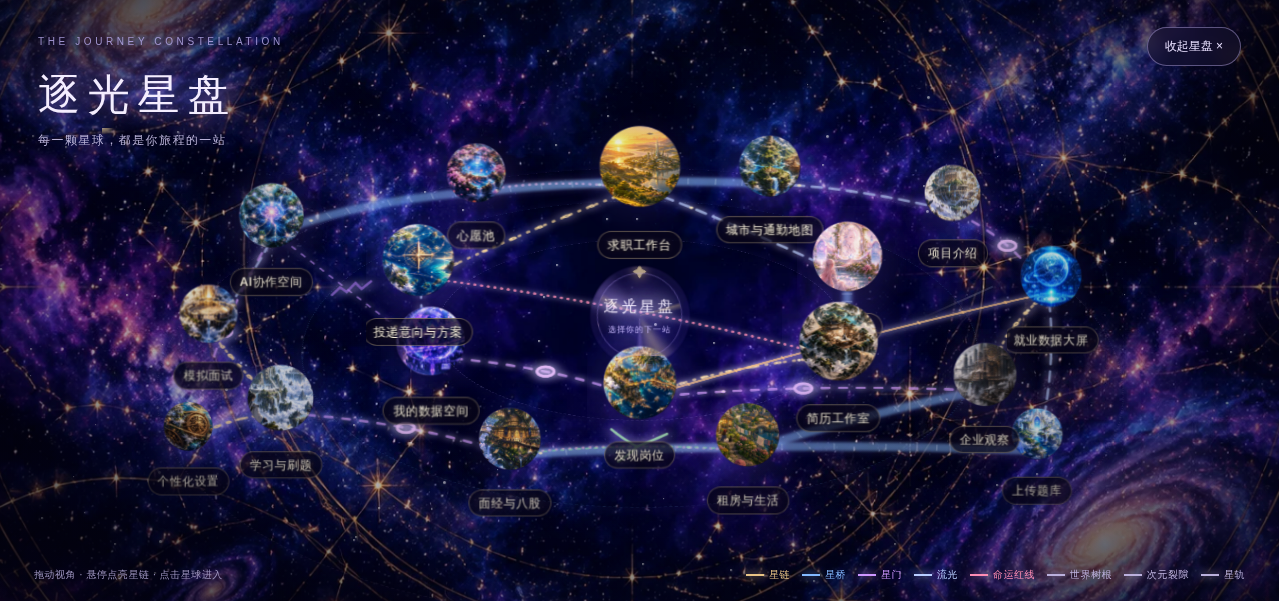
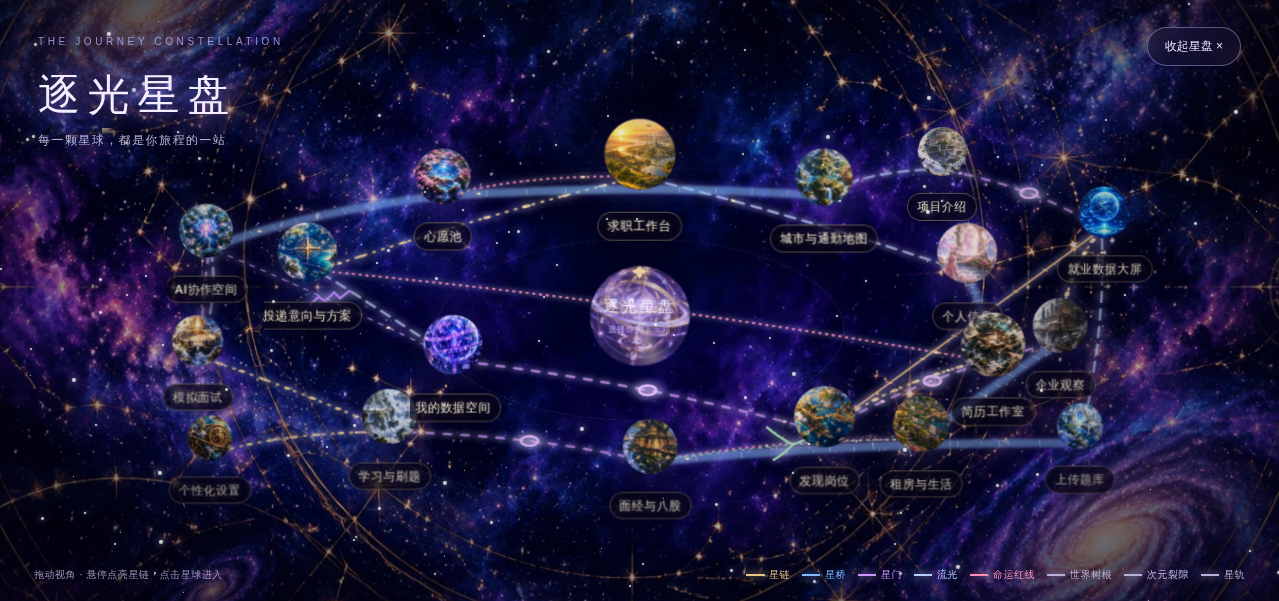
feat: 重生成3D星盘并拉开星球间距
使用新生成的天体星盘图叠加自转/能量扫光；重新排布18个星球避免名称遮挡；修正流星朝向、增强星尘、悬浮阴影；更新预览与文档。

Changed region(s): [[0.122, 0.1797, 0.9148, 0.8686], [0.3659, 0.8087, 0.4269, 0.8686]]

diff --git a/app/src/star-map.ts b/app/src/star-map.ts
@@ -5,24 +5,24 @@ type Position = { x: number; y: number; z: number; size: number };
 type Connect = { a: string; b: string; kind: string };
 
 const POS: Record<string, Position> = {
-  home: { x: 50, y: 16, z: 50, size: 134 },
-  profile: { x: 69, y: 39, z: 24, size: 118 },
-  resume: { x: 68, y: 61, z: 38, size: 132 },
-  jobs: { x: 50, y: 72, z: 18, size: 124 },
-  data: { x: 31, y: 61, z: 30, size: 116 },
-  plan: { x: 30, y: 40, z: 42, size: 120 },
-  guide: { x: 79, y: 22, z: 8, size: 96 },
-  dashboard: { x: 88, y: 44, z: 10, size: 104 },
-  companies: { x: 82, y: 70, z: 6, size: 108 },
-  housing: { x: 60, y: 86, z: 12, size: 108 },
-  knowledge: { x: 38, y: 87, z: 8, size: 106 },
-  practice: { x: 17, y: 76, z: 16, size: 112 },
-  interview: { x: 10, y: 54, z: 4, size: 100 },
-  chat: { x: 16, y: 28, z: 12, size: 110 },
-  wish: { x: 35, y: 17, z: 22, size: 100 },
-  map: { x: 62, y: 15, z: 14, size: 104 },
-  "study-upload": { x: 87, y: 86, z: 0, size: 88 },
-  settings: { x: 8, y: 84, z: 0, size: 84 },
+  home: { x: 50, y: 13, z: 50, size: 118 },
+  profile: { x: 80, y: 38, z: 24, size: 102 },
+  resume: { x: 82, y: 62, z: 38, size: 108 },
+  jobs: { x: 67, y: 81, z: 18, size: 104 },
+  data: { x: 33, y: 62, z: 30, size: 100 },
+  plan: { x: 20, y: 38, z: 42, size: 100 },
+  guide: { x: 78, y: 11, z: 8, size: 84 },
+  dashboard: { x: 93, y: 27, z: 10, size: 88 },
+  companies: { x: 89, y: 57, z: 6, size: 94 },
+  housing: { x: 76, y: 83, z: 12, size: 96 },
+  knowledge: { x: 51, y: 89, z: 8, size: 94 },
+  practice: { x: 27, y: 81, z: 16, size: 94 },
+  interview: { x: 9, y: 61, z: 4, size: 88 },
+  chat: { x: 10, y: 32, z: 12, size: 92 },
+  wish: { x: 32, y: 18, z: 22, size: 94 },
+  map: { x: 67, y: 18, z: 14, size: 98 },
+  "study-upload": { x: 91, y: 84, z: 0, size: 80 },
+  settings: { x: 10, y: 87, z: 0, size: 78 },
 };
 const CONNECTIONS: Connect[] = [
   { a: "home", b: "profile", kind: "starlight" },
@@ -56,8 +56,8 @@ const KIND_LABEL: Record<string, string> = { chain: "星链", bridge: "星桥", 
 const METEORS = (() => { let s = 91; const r = () => (s = (s * 48271) % 2147483647) / 2147483647; return Array.from({ length: 8 }, (_, i) => ({ left: 8 + r() * 85, top: r() * 48, len: 60 + r() * 100, delay: r() * 14, dur: 4 + r() * 3, key: i })); })();
 METEORS[0].delay = 0.2; METEORS[0].dur = 3.2; METEORS[0].top = 8; METEORS[0].left = 22;
 METEORS[1].delay = 3.4; METEORS[1].dur = 3.8; METEORS[1].top = 18; METEORS[1].left = 70;
-const STARS = (() => { let s = 17; const r = () => (s = (s * 48271) % 2147483647) / 2147483647; return Array.from({ length: 90 }, (_, i) => ({ left: r() * 100, top: r() * 100, d: r() * 6 + 2, delay: r() * 8, size: r() * 2 + 1, key: i })); })();
-const STAR_ASSETS = ["cosmos", "astrolabe", ...Object.keys(POS)].map((id) => "/assets/star-map/" + id + ".webp");
+const STARS = (() => { let s = 17; const r = () => (s = (s * 48271) % 2147483647) / 2147483647; return Array.from({ length: 140 }, (_, i) => ({ left: r() * 100, top: r() * 100, d: r() * 6 + 2, delay: r() * 8, size: r() * 2.8 + 1, key: i })); })();
+const STAR_ASSETS = ["cosmos", "astrolabe", "astrolabe2", ...Object.keys(POS)].map((id) => "/assets/star-map/" + id + ".webp");
 let preloadStarted = false;
 /** 空闲时预取星盘图片；配合服务端 immutable 缓存，第二次打开几乎瞬时。 */
 export function preloadStarAssets() {
@@ -169,7 +169,7 @@ export default defineComponent({
       h("div", { class: "star-map-stage", style: { "--rx": tilt.value.x + "deg", "--ry": tilt.value.y + "deg" }, onPointermove: move, onPointerleave: reset }, [
         h("div", { class: "star-ring ring-1" }), h("div", { class: "star-ring ring-2" }), h("div", { class: "star-ring ring-3" }),
         h("div", { class: "star-core" }, [
-          h("span", { class: "star-core-glow" }), h("span", { class: "star-core-sweep" }), h("span", { class: "star-core-rune" }, "✦"),
+          h("span", { class: "star-core-glow" }), h("span", { class: "star-core-art" }), h("span", { class: "star-core-sweep" }), h("span", { class: "star-core-rune" }, "✦"),
           h("strong", null, "逐光星盘"), h("small", null, "选择你的下一站"),
         ]),
         h("svg", { class: "star-links", viewBox: "0 0 1600 1000", preserveAspectRatio: "none", "aria-hidden": "true" }, CONNECTIONS.map((c, i) => linkGroup(c, i))),

diff --git a/app/src/app.css b/app/src/app.css
@@ -2690,3 +2690,14 @@ html[data-theme="night"] .housing-rent select { color: #eaf2ff; }
 .star-map.is-previewing .star-planet-desc{opacity:0!important}
 .star-preview:before{content:"";position:absolute;left:50%;top:50%;width:min(370px,34vw);height:min(370px,34vw);border:1px solid rgba(247,216,152,.35);border-radius:50%;transform:translate(-50%,-50%) rotateX(68deg);box-shadow:0 0 18px rgba(171,140,255,.25);animation:previewRing 12s linear infinite;pointer-events:none}
 @keyframes previewRing{to{transform:translate(-50%,-50%) rotateX(68deg) rotate(360deg)}}
+.star-core-art{position:absolute;inset:3%;z-index:0;border-radius:50%;background:url("/assets/star-map/astrolabe2.webp") center/contain no-repeat;mix-blend-mode:screen;opacity:.78;animation:coreArt 38s linear infinite;pointer-events:none;-webkit-mask-image:radial-gradient(circle at 50% 50%,#000 55%,transparent 72%);mask-image:radial-gradient(circle at 50% 50%,#000 55%,transparent 72%)}
+.star-core strong,.star-core small{z-index:2}
+@keyframes coreArt{to{transform:rotate(360deg)}}
+/* 流星朝向修正：头在右下，尾在左上 */
+.star-meteors i{transform:rotate(24deg) translateX(-40px)}
+@keyframes meteorFall{0%{opacity:0;transform:translate3d(-12vw,-8vh,0) rotate(24deg) scaleX(.2)}4%{opacity:1}17%{opacity:0;transform:translate3d(56vw,52vh,0) rotate(24deg) scaleX(1)}18%,100%{opacity:0}}
+/* 让星点更明显 */
+.star-map-stars{z-index:1}
+.star-map-stars i{box-shadow:0 0 8px #e9eeff,0 0 18px rgba(170,190,255,.9);opacity:.8}
+/* 星球悬浮投影 */
+.star-planet:after{content:"";position:absolute;left:50%;bottom:-9px;width:78%;height:14px;transform:translateX(-50%);border-radius:50%;background:radial-gradient(ellipse,rgba(6,4,22,.72),transparent 72%);filter:blur(5px);z-index:-1;pointer-events:none}

diff --git a/docs/TEST_REPORT.md b/docs/TEST_REPORT.md
@@ -219,7 +219,7 @@
 - 数据空间：数据概览为本账号口径；上传记录可撤销；同岗位/企业/租房/问题按业务键保留最新并删除旧行；样例文件和去重/撤销测试通过。
 - 岗位投递意向：岗位卡片显示未确认/待保存/已确认；支持按已确认/未确认筛选，筛选使用服务端已保存意向。
 - 地图：修复 .page-content > * 的 relative 定位覆盖 .map-full fixed 导致地图容器 0 高度；地图层现在固定填满视口。岗位/租房/地铁/酒店/推荐改为类型化 SVG 图钉，图例置于顶部；进入地图时隐藏网站顶部栏，地图搜索框保持在顶部；通勤方向的住房/岗位地址已选后可点击 × 清除；企业详情表格字号提升到 14px/1.75；租房筛选栏合并城市、搜索、租金控件，搜索按钮改为主色；学习页 iframe 不再被 page-content 的 relative 规则下推，紧贴顶部栏；批量简化改为一次请求处理多条，最多50道并跳过已有答案；卡片显示“简化答案”标记；收藏/错题接口返回完整题目，刷新后收藏与错题列表和按钮状态恢复；修复 review 列表 onMounted/onActivated 并发重载导致的多次点击；面经八股移除重复的收藏/待复习/已掌握/学习入口；问问AI改为打开知微对话草稿，画布分步讲题和3D立方体鼠标交互通过；长题用 chip、Shift+Enter 换行、输入框自动伸缩、图片关闭X居中、立绘/看板娘会话管理（含删除）通过；讲题画布改为大尺寸覆盖窗口，可最小化再从对话框入口恢复；3D 支持透明材质与多物体组合（透明正方体+球体）；刷新学习页保持当前科目/版本；四个智能体支持自然语言生成自定义网页并弹出覆盖窗；报告页隐藏左上角悬浮上传入口；小机器人工具箱移除 Agent 任务。
-- 逐光星盘：18 个板块使用 AI 生成的独立风格星球图，中心动态 CSS 天体盘，星链/星桥/星门/流光/命运红线/世界树根/次元裂隙/星轨连接；链环、桥板、星门、能量粒子为 SVG 动态绘制；悬停放大星球并出现中央法天象地预览，相关连线点亮；背景有闪烁星尘和流星；星球图为 webp，服务端 immutable 缓存 + 空闲预取。Playwright 实测 18 图加载、悬停/预览/联动、跳转、关闭和缓存头。
+- 逐光星盘：18 个板块使用 AI 生成的独立风格星球图，单独生成的 3D 天体星盘图 + 动态扫光/自转，18 颗星球拉开间距，星链/星桥/星门/流光/命运红线/世界树根/次元裂隙/星轨连接；链环、桥板、星门、能量粒子为 SVG 动态绘制；悬停放大星球并出现中央法天象地预览，相关连线点亮；背景有闪烁星尘和流星；星球图为 webp，服务端 immutable 缓存 + 空闲预取。Playwright 实测 18 图加载、悬停/预览/联动、跳转、关闭和缓存头。
 - 详细记录：[CLICK_AUDIT.md](CLICK_AUDIT.md)
 
 ## 六、仍存在的限制/风险

diff --git a/docs/MANUAL_TESTING.md b/docs/MANUAL_TESTING.md
@@ -100,7 +100,7 @@
 | 21 | 上传去重/撤销 | 上传 docs/manual-data/jobs-upload-sample.csv 两次；在“已上传的数据”或“上传记录”点“撤销上传” | 首次约5行；第二次替换旧行；两个入口都能撤销并删除数据 | 样例是虚构数据 |
 | 22 | 关闭按钮/圆盘 | 打开通告、登录弹窗；看板娘圆盘 | × 垂直水平居中；紫色圆盘 ✦ 居中 | 深色主题同样 |
 | 23 | 岗位投递意向筛选 | 岗位页点“加入投递意向”并保存；切换“已确认/未确认投递意向” | 卡片出现已确认/待保存徽标；已确认筛选只显示已保存岗位 | 未保存选择算未确认 |
-| 35 | 逐光星盘 3D 宇宙地图 | 点击“展开星盘”；悬停星球；点击任意星球；关闭 | 18 颗风格化星球和名称；悬停星球/相关连线发光，中央出现大星球预览；背景流星；点击进入板块；星盘可关闭；二次打开图片走缓存 | 1279×900 / 1279×601 |
+| 35 | 逐光星盘 3D 宇宙地图 | 点击“展开星盘”；悬停星球；点击任意星球；关闭 | 18 颗风格化星球和名称，星球间距加大无遮挡；悬停星球/相关连线发光，中央出现大星球预览；中心 3D 天体盘自转，背景星尘闪烁并有流星；点击进入板块；二次打开图片走缓存 | 1279×900 / 1279×601 |
 | 34 | 智能体自定义网页 | 对任一看板娘说“生成一个学习计划网页” | 弹出可最小化的独立网页窗口；报告页左上角无悬浮上传按钮；科目工具箱无 Agent 任务 | 真实 AI |
 | 33 | 讲题覆盖窗/刷新 | 在知微里让AI讲题/做3D；关掉覆盖窗后刷新学习页 | 画布覆盖页面，右上角 − 可最小化；刷新仍在原科目版本 | 覆盖窗 z-index 高 |
 | 32 | 对话 chip/输入/会话 | 问问AI填入长题；Shift+Enter；输入长文本；点新会话/会话；删除历史会话 | 输入框显示[题目]chip；换行不发送；输入框先变宽再增高；可新建/切换/删除会话并刷新保留 | 1279×900 |

diff --git a/docs/FEATURES.md b/docs/FEATURES.md
@@ -6,7 +6,7 @@
 
 - 落地页、品牌、职业旅程地图（17 个板块）
 - 可拖动/收起的星盘导航，位置记忆，键盘可操作
-- 逐光星盘：全屏宇宙星空 3D 旅程地图，18 个板块各自一颗风格化星球（AI 生成世界场景），中心天盘、星链/星桥/星门/流光/命运红线连接，悬停点亮星球与相关连线并出现中央“法天象地”预览，点击进入对应板块；星盘和背景有流星/星尘/天体旋转，图片 webp + immutable 缓存
+- 逐光星盘：全屏宇宙星空 3D 旅程地图，18 个板块各自一颗风格化星球（AI 生成世界场景），中心天盘、星链/星桥/星门/流光/命运红线连接，悬停点亮星球与相关连线并出现中央“法天象地”预览，点击进入对应板块；中心是单独生成的 3D 天体星盘图，叠加自转/能量扫光、光点星尘、流星和悬浮阴影；图片 webp + immutable 缓存
 - 首页 bigdata_analysis 风格 Tendril 弹簧拖尾：20 条曲线跟随鼠标；透明 canvas、不拦截点击
 - 左上角逐光 Logo 始终回到首页第一个板块；已在首页时回到顶部
 - 就业数据大屏：标题居中；全屏时左上角显示同风格“退出全屏”按钮，非全屏隐藏
